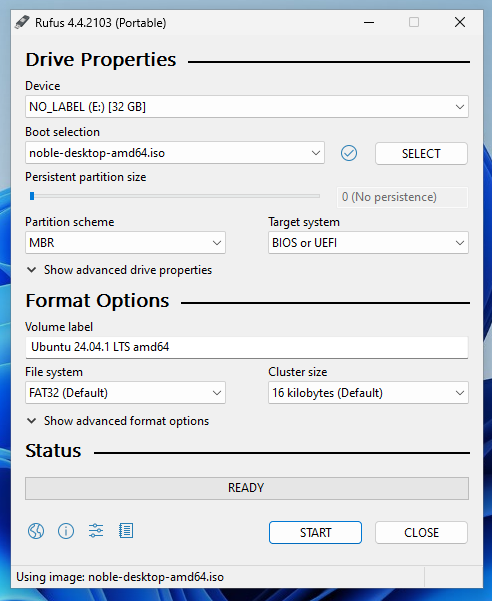
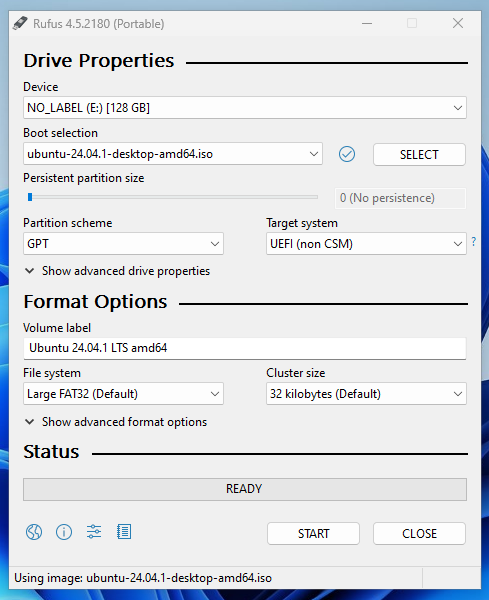
voorbereiding: verwijs naar officiële 24.04.1-ISO

diff --git a/docs/linux/installatie/voorbereiding.md b/docs/linux/installatie/voorbereiding.md
@@ -14,16 +14,7 @@ Gebruik je macOS? Dan kan je deze instructies niet volgen. Je kan gewoon macOS g
 In deze stap download je het ISO-bestand voor Ubuntu desktop, en zet je deze op de usb-stick.
 Zorg allereerst dat je een lege USB-stick van minstens 8 GiB hebt, en sluit deze aan op je computer.
 
-Download vervolgens het ISO-bestand van de laatste daily build van [Ubuntu 24.04.1](https://byod.segfault.party/noble-desktop-amd64.iso).
-
-!!! note "Geleende USB-stick?"
-    Als je een USB-stick van een van onze helpers hebt geleend, hoef je de USB-voorbereiding niet opnieuw te doen. Je kunt dan verder naar het kopje **Fast start-up uitschakelen**.
-
-!!! tip "Eduroam"
-    Zorg ervoor dat je met het wifi-netwerk `eduroam` verbonden bent als je het ISO-bestand downloadt; de open wifi is erg traag. Om met `eduroam` te verbinden kan je de tool gebruiken op [het wifi-portal](https://wifiportal.uva.nl).
-
-!!! note "Geüpdatete ISO"
-    Sinds 23 augustus gebruiken we *niet* de ISO die beschikbaar is op de Ubuntu-website (`ubuntu-24.04-desktop-amd64.iso`), maar specifiek de daily build die beschikbaar is via de link hierboven. Als je je USB-stick al voorbereid hebt met de oude ISO zul je dit helaas opnieuw moeten doen -- hiermee werken we om een [specifiek opstartprobleem](../sbat.md) heen.
+Download vervolgens het ISO-bestand van [Ubuntu 24.04.1](https://ubuntu.com/download/desktop/thank-you?version=24.04.1&architecture=amd64&lts=true).
 
 Download het programma [Rufus](https://github.com/pbatard/rufus/releases/download/v4.4/rufus-4.4p.exe); een klein programma waarmee je de ISO naar de usb-stick kan schrijven, zonder handmatig partities te maken en bestanden te kopiëren.
 
